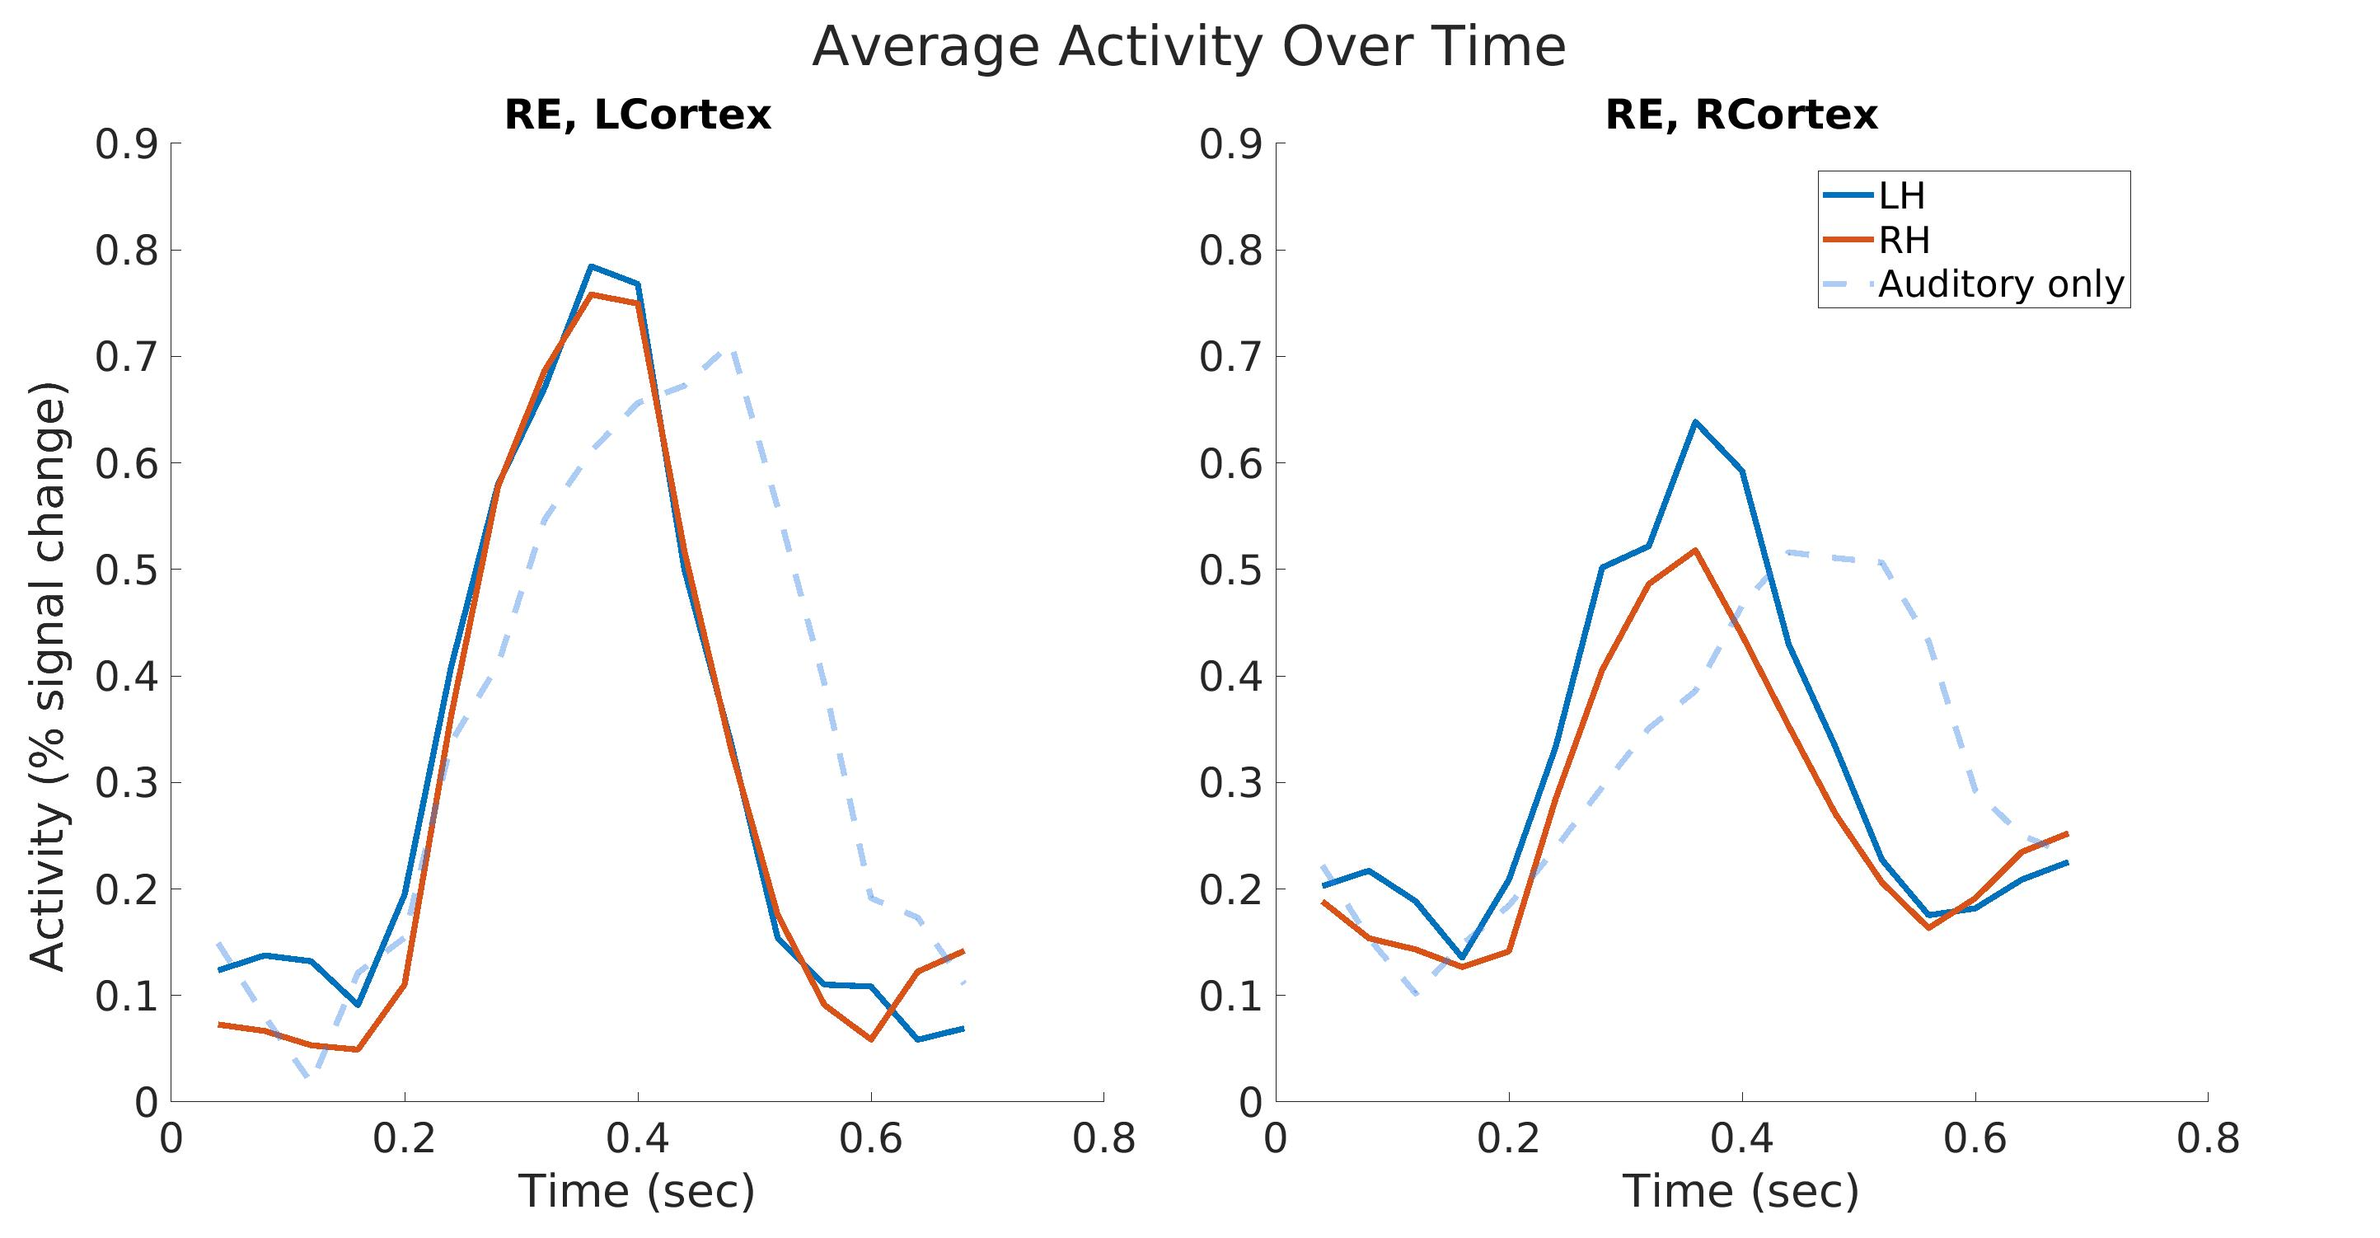
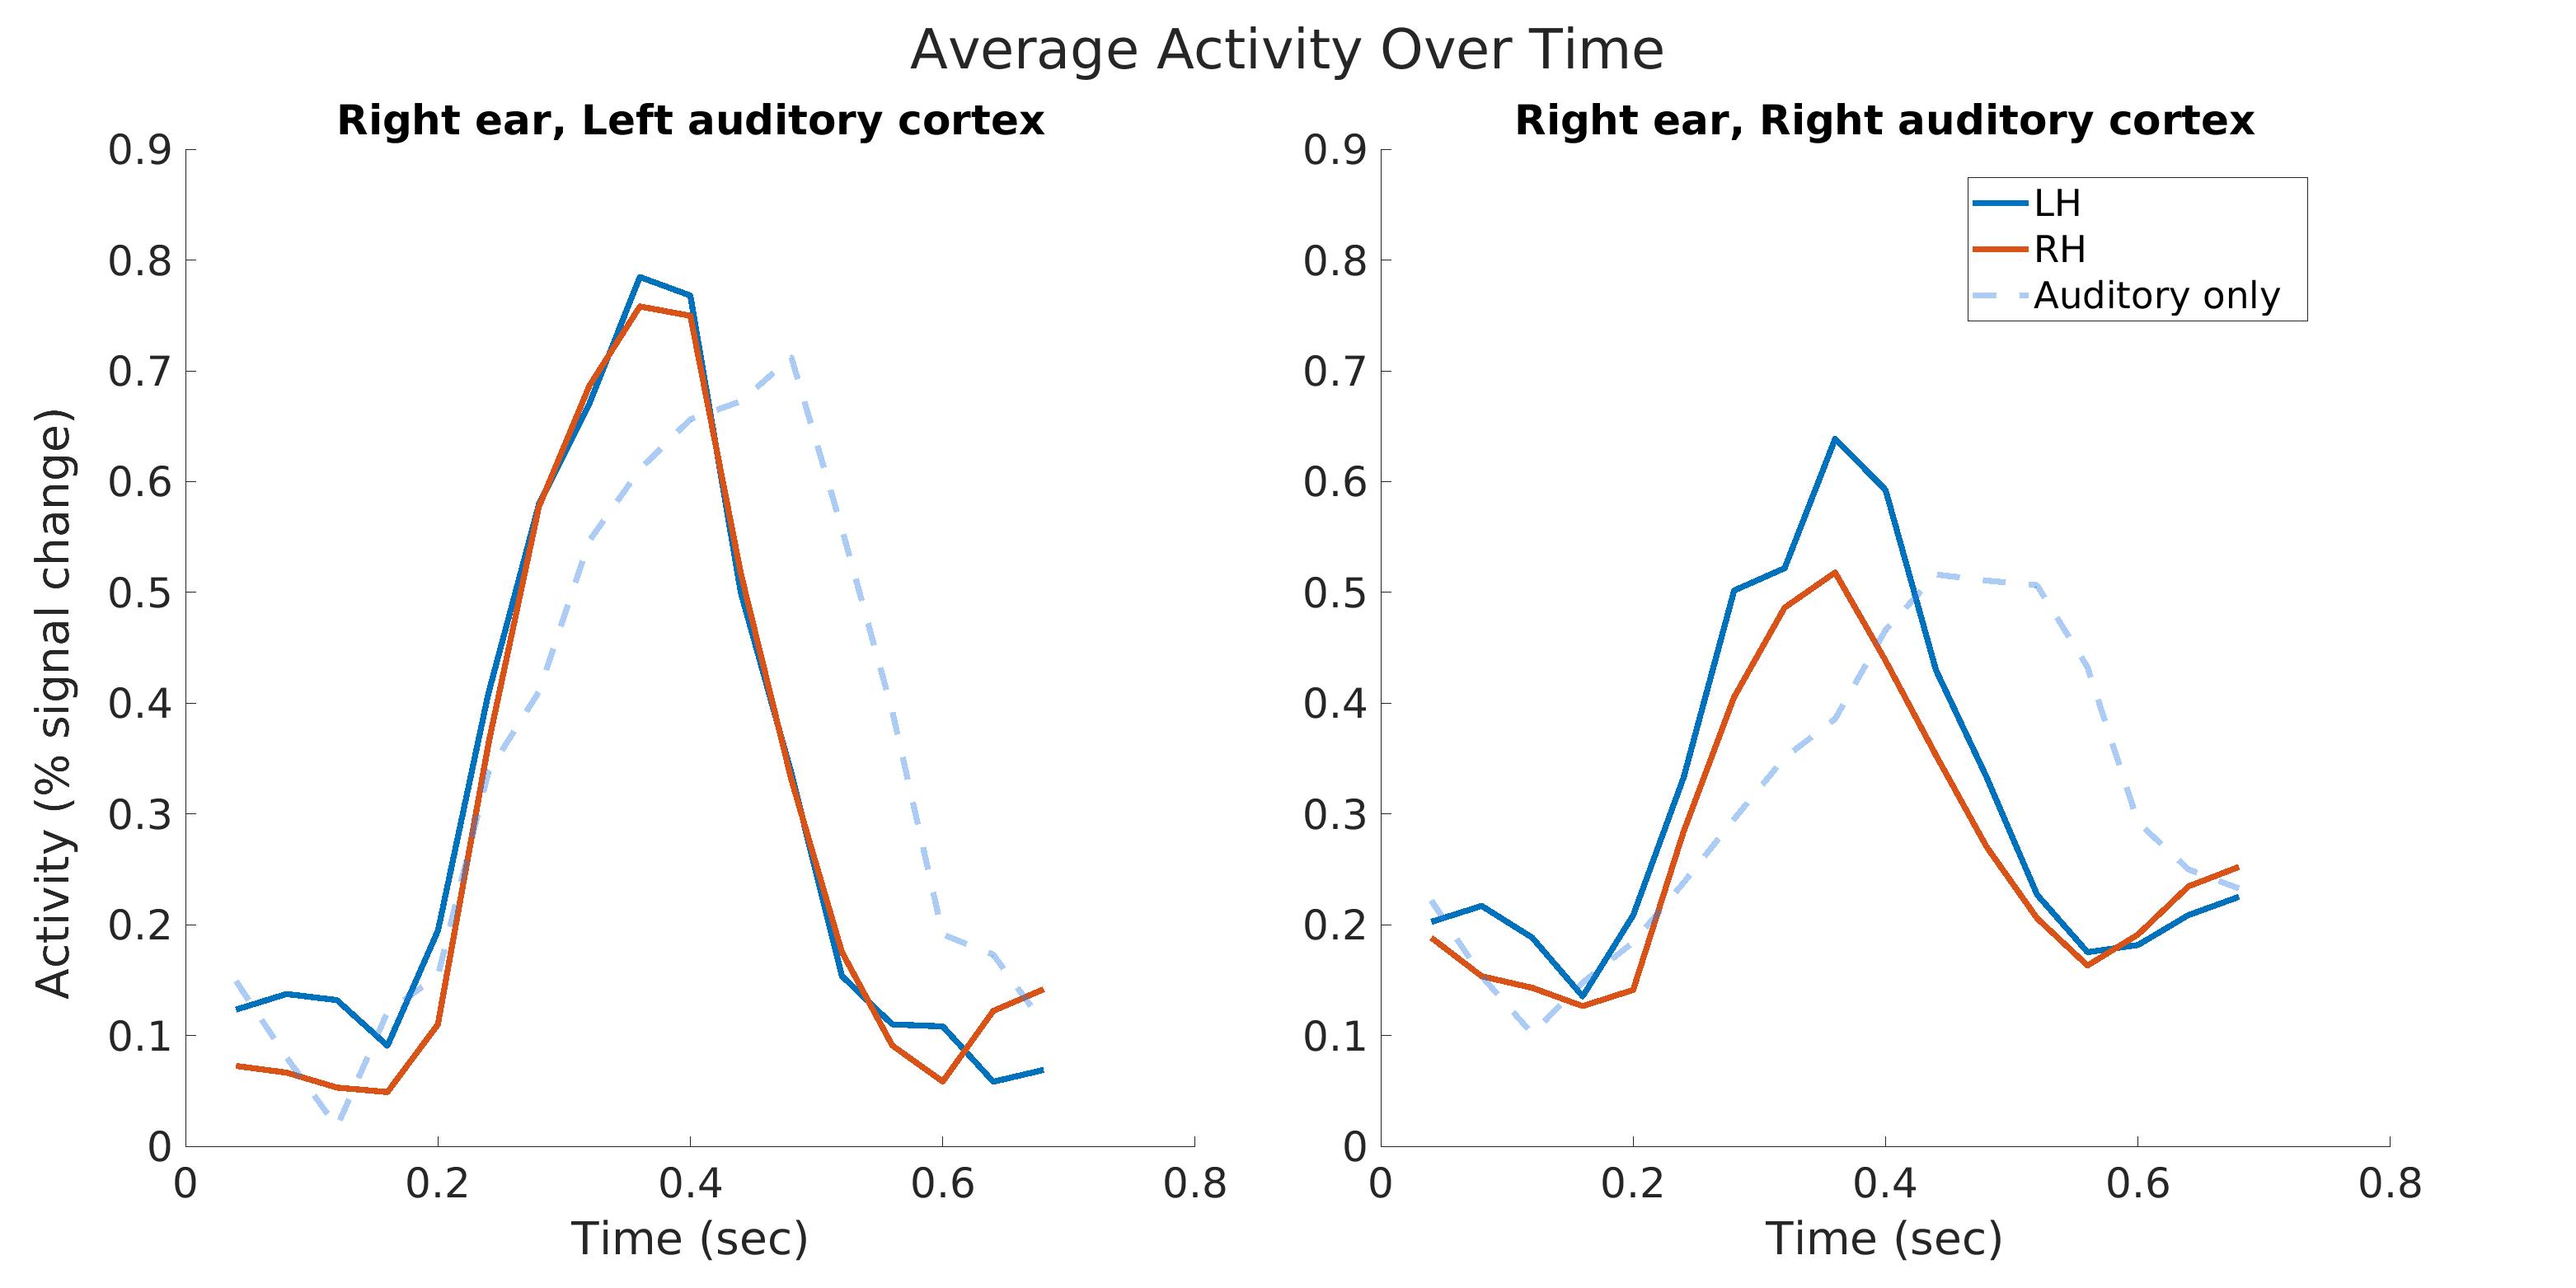
update figures dir (auto)

diff --git a/plotTimeCourseOnePlotSubplots.m b/plotTimeCourseOnePlotSubplots.m
@@ -1,83 +1,85 @@
 function plotTimeCourseOnePlotSubplots()
-    params = setAnalysisParams();
-    data = load(fullfile(params.experimentDir, "time-course-results", "timeCourseSignificantVoxels", "time_course_mean.mat"));
-    auditoryData = load(fullfile(params.timeCourseOutDir,  'time_course_auditory_mean.mat'));
-    
-    % Create tiled layout
-    ears = ["LE", "RE"];
-    cortices = ["LCortex", "RCortex"];
+params = setAnalysisParams();
+data = load(fullfile(params.experimentDir, "time-course-results", "timeCourseSignificantVoxels", "time_course_mean.mat"));
+auditoryData = load(fullfile(params.timeCourseOutDir,  'time_course_auditory_mean.mat'));
 
-    for i = 1:length(ears)
-      figure('Position', [100, 100, 2000,1000]);
-      tcl = tiledlayout(1, 2);
-      fontsize = 32; % Set your desired font
-      subTitleFontsize = 24; % Set your desired font
-      tickLabelFontSize = 24; % Font size for tick labels
+% Create tiled layout
+ears = ["LE", "RE"];
+earNames = ["Left ear", "Right ear"]
+cortices = ["LCortex", "RCortex"];
+cortexNames = ["Left auditory cortex", "Right auditory cortex"]
 
-      title(tcl, 'Average Activity Over Time', 'FontSize', fontsize);
+for i = 1:length(ears)
+    figure('Position', [100, 100, 2000,1000]);
+    tcl = tiledlayout(1, 2);
+    fontsize = 32; % Set your desired font
+    subTitleFontsize = 24; % Set your desired font
+    tickLabelFontSize = 24; % Font size for tick labels
 
-        ear = ears(i);
-        
-        for j = 1:length(cortices)
-            cortex = cortices(j);
+    title(tcl, 'Average Activity Over Time', 'FontSize', fontsize);
 
-            % Create the variable names dynamically
-            varName_LH = strcat('average_', ear, '_', cortex, '_LH');
-            varName_RH = strcat('average_', ear, '_', cortex, '_RH');
-            varName_Cortex = strcat('average_', ear, '_', cortex);
+    ear = ears(i);
+    earName = earNames(i)
+    for j = 1:length(cortices)
+        cortex = cortices(j);
+        cortexName = cortexNames(j())
+        % Create the variable names dynamically
+        varName_LH = strcat('average_', ear, '_', cortex, '_LH');
+        varName_RH = strcat('average_', ear, '_', cortex, '_RH');
+        varName_Cortex = strcat('average_', ear, '_', cortex);
 
-            % Access the data from the structure dynamically
-            LH_data = data.(varName_LH);
-            RH_data = data.(varName_RH);
-            Cortex_data = auditoryData.(varName_Cortex);
+        % Access the data from the structure dynamically
+        LH_data = data.(varName_LH);
+        RH_data = data.(varName_RH);
+        Cortex_data = auditoryData.(varName_Cortex);
 
-            % Plotting in next tile
-            ax = nexttile;
-            set([ax], 'FontSize', fontsize-10);
-            set([ax], 'XTickLabel', num2cell(get(ax, 'XTick')), 'XTickLabelMode', 'manual', 'YTickLabel', num2cell(get(ax, 'YTick')), 'YTickLabelMode', 'manual');
-            set([ax], {'FontSize'}, {tickLabelFontSize}); % Specific font size for tick labels
+        % Plotting in next tile
+        ax = nexttile;
+        set([ax], 'FontSize', fontsize-10);
+        set([ax], 'XTickLabel', num2cell(get(ax, 'XTick')), 'XTickLabelMode', 'manual', 'YTickLabel', num2cell(get(ax, 'YTick')), 'YTickLabelMode', 'manual');
+        set([ax], {'FontSize'}, {tickLabelFontSize}); % Specific font size for tick labels
 
-            hold on;
-            lineWidth = 3.5;
-            plot(LH_data, 'LineWidth', lineWidth);
-            plot(RH_data, 'LineWidth', lineWidth);
-            plot(Cortex_data, "--", 'LineWidth', lineWidth, 'Color', [0.2 0.5 0.9 0.4]);
+        hold on;
+        lineWidth = 3.5;
+        plot(LH_data, 'LineWidth', lineWidth);
+        plot(RH_data, 'LineWidth', lineWidth);
+        plot(Cortex_data, "--", 'LineWidth', lineWidth, 'Color', [0.2 0.5 0.9 0.4]);
 
-            % Adding title and labels
-            titleStr = sprintf("%s, %s", ear, cortex);
-            title(titleStr, 'FontSize', subTitleFontsize);
-            xlabel('Time (sec)');
-            if cortex == "LCortex" 
-                hLabel = ylabel('Activity (% signal change)');
+        % Adding title and labels
+        titleStr = sprintf("%s, %s", earName, cortexName);
+        title(titleStr, 'FontSize', subTitleFontsize);
+        xlabel('Time (sec)');
+        if cortex == "LCortex"
+            hLabel = ylabel('Activity (% signal change)');
 
-                % Get current position of the ylabel
-                currentPosition = get(hLabel, 'Position');
+            % Get current position of the ylabel
+            currentPosition = get(hLabel, 'Position');
 
-                % Increase the y-value to shift it upwards
-                newPosition = currentPosition + [-0.5 0 0]; % Adjust the 0.1 as needed
+            % Increase the y-value to shift it upwards
+            newPosition = currentPosition + [-0.5 0 0]; % Adjust the 0.1 as needed
 
-                % Set the new position of the ylabel
-                set(hLabel, 'Position', newPosition);
-            end
-            ylim([-0.3 0.6]);
-            if cortex == "RCortex"
-              legend({'LH', 'RH', 'Auditory only'}, 'Location', 'best');
-              end
-            hold off;
+            % Set the new position of the ylabel
+            set(hLabel, 'Position', newPosition);
         end
-        % Saving the figures to jpg files
-        titleStr = sprintf("Average Activity Over Time Joint %s", ear);
-        fileName = strcat(strrep(titleStr, " ", "_"), '_subplots', '.jpg');
-        fileName = fullfile("figures", fileName);
-
-        %     set(gcf, 'Position', get(0, 'Screensize'));
-        saveas(gcf, fileName, 'jpg');
+        ylim([-0.3 0.6]);
+        if cortex == "RCortex"
+            legend({'LH', 'RH', 'Auditory only'}, 'Location', 'best');
+        end
+        hold off;
     end
-    
+    % Saving the figures to jpg files
+    titleStr = sprintf("Average Activity Over Time Joint %s", ear);
+    fileName = strcat(strrep(titleStr, " ", "_"), '_subplots', '.jpg');
+    fileName = fullfile("figures", fileName);
 
-    % Copying and updating figure directory in git
-    system("rsync -r  /home/user/Code/fMRI-pipeline/figures/ /media/user/Data/fmri-data/analysis-output/figures/");
-    system("cd /home/user/Code/fMRI-pipeline/figures");
-    system("git add *");
-    system('git commit -am "update figures dir (auto)"');
+    %     set(gcf, 'Position', get(0, 'Screensize'));
+    saveas(gcf, fileName, 'jpg');
+end
+
+
+% Copying and updating figure directory in git
+system("rsync -r  /home/user/Code/fMRI-pipeline/figures/ /media/user/Data/fmri-data/analysis-output/figures/");
+system("cd /home/user/Code/fMRI-pipeline/figures");
+system("git add *");
+system('git commit -am "update figures dir (auto)"');
 end
